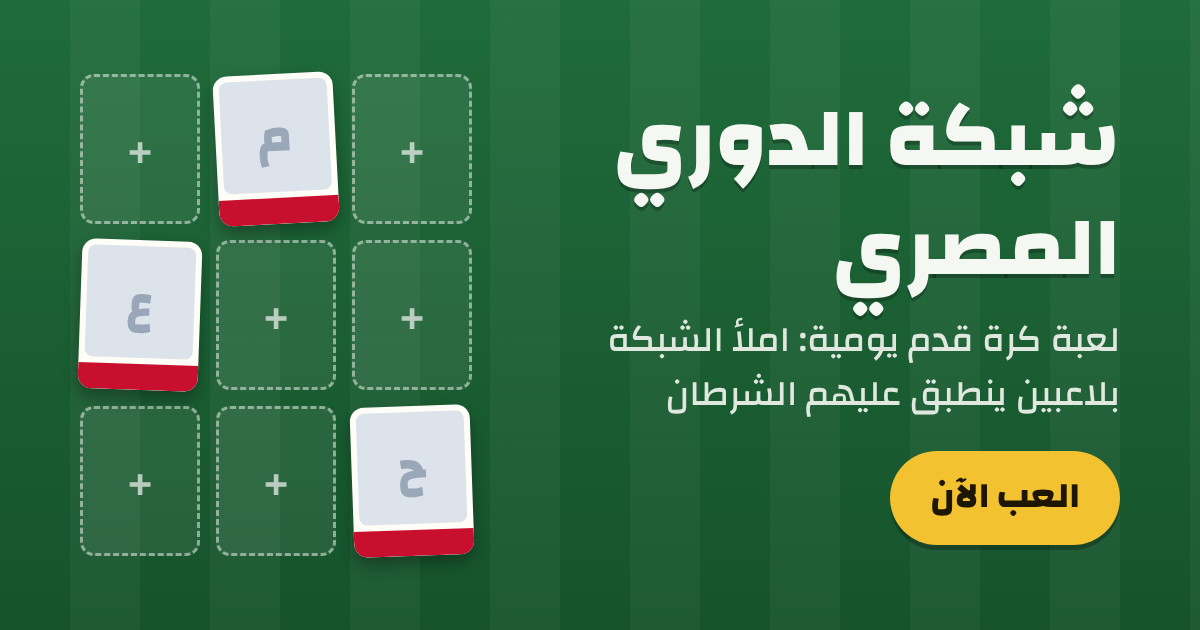
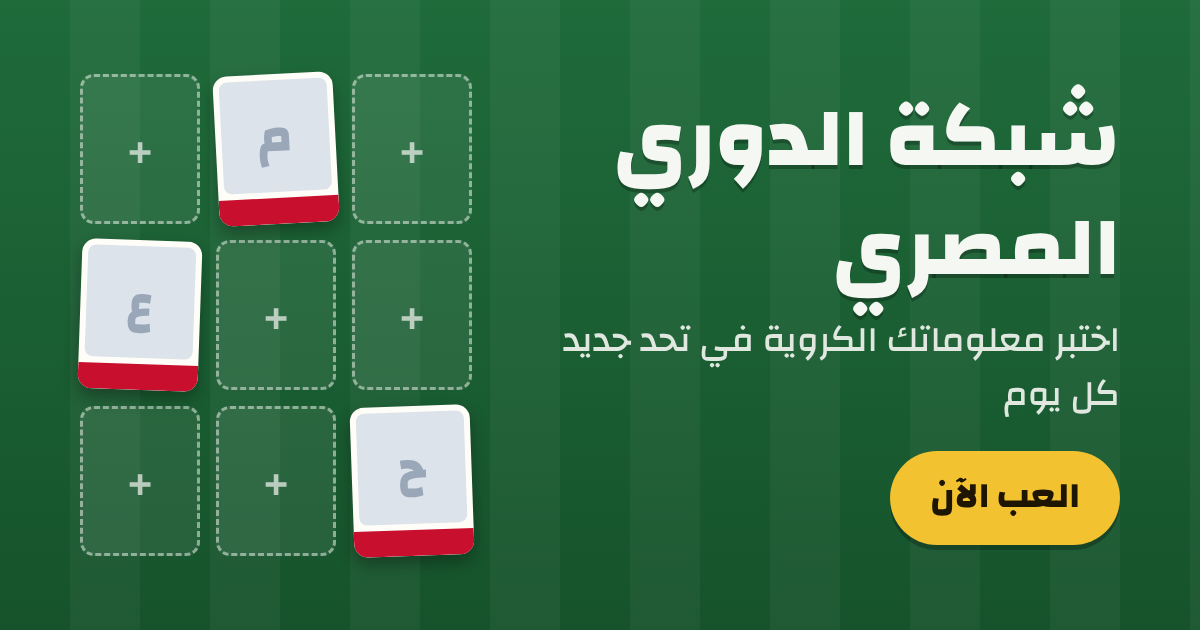
Add files via upload

Changed region(s): [[0.4625, 0.5127, 0.925, 0.573], [0.555, 0.6032, 0.925, 0.6635]]

diff --git a/index.html b/index.html
@@ -12,10 +12,10 @@
 <meta property="og:type" content="website">
 <meta property="og:site_name" content="شبكة الدوري">
 <meta property="og:locale" content="ar_EG">
-<meta property="og:title" content="شبكة الدوري المصري">
-<meta property="og:description" content="لعبة كرة قدم يومية: املأ الشبكة بلاعبين لعبوا في الدوري المصري">
+<meta property="og:title" content="شبكة الدوري: الدوري المصري والدوري الإنجليزي">
+<meta property="og:description" content="اختبر معلوماتك الكروية في تحد جديد كل يوم، للدوري المصري والدوري الإنجليزي.">
 <meta property="og:url" content="https://islam-salem.github.io/dawri-grid/">
-<meta property="og:image" content="https://islam-salem.github.io/dawri-grid/icons/og-egypt.png">
+<meta property="og:image" content="https://islam-salem.github.io/dawri-grid/icons/og-site.png">
 <meta property="og:image:width" content="1200">
 <meta property="og:image:height" content="630">
 <meta name="twitter:card" content="summary_large_image">
@@ -32,22 +32,5 @@
 <div id="app"></div>
 <script>window.GAME = { lang: "ar", root: "", data: "data/", key: "egrid", league: "egypt", title: "شبكة الدوري المصري" };</script>
 <script src="app.js?v=20"></script>
-<script>
-// the page title always shows in full on one line: phones with enlarged text (or in-app browsers) can make it
-// wider than its space between the buttons, so shrink it just enough when it does not fit
-(function () {
-  function fit() {
-    var h = document.querySelector('.title h1'); if (!h) return;
-    h.style.fontSize = '';
-    var fs = parseFloat(getComputedStyle(h).fontSize), n = 0;
-    while (h.scrollWidth > h.clientWidth + 1 && fs > 10 && n++ < 40) { fs -= 0.5; h.style.fontSize = fs + 'px'; }
-  }
-  fit();
-  window.addEventListener('resize', fit);
-  if (document.fonts && document.fonts.ready) document.fonts.ready.then(fit);
-  var app = document.getElementById('app');
-  if (app && window.MutationObserver) new MutationObserver(fit).observe(app, { childList: true });
-})();
-</script>
 </body>
 </html>
